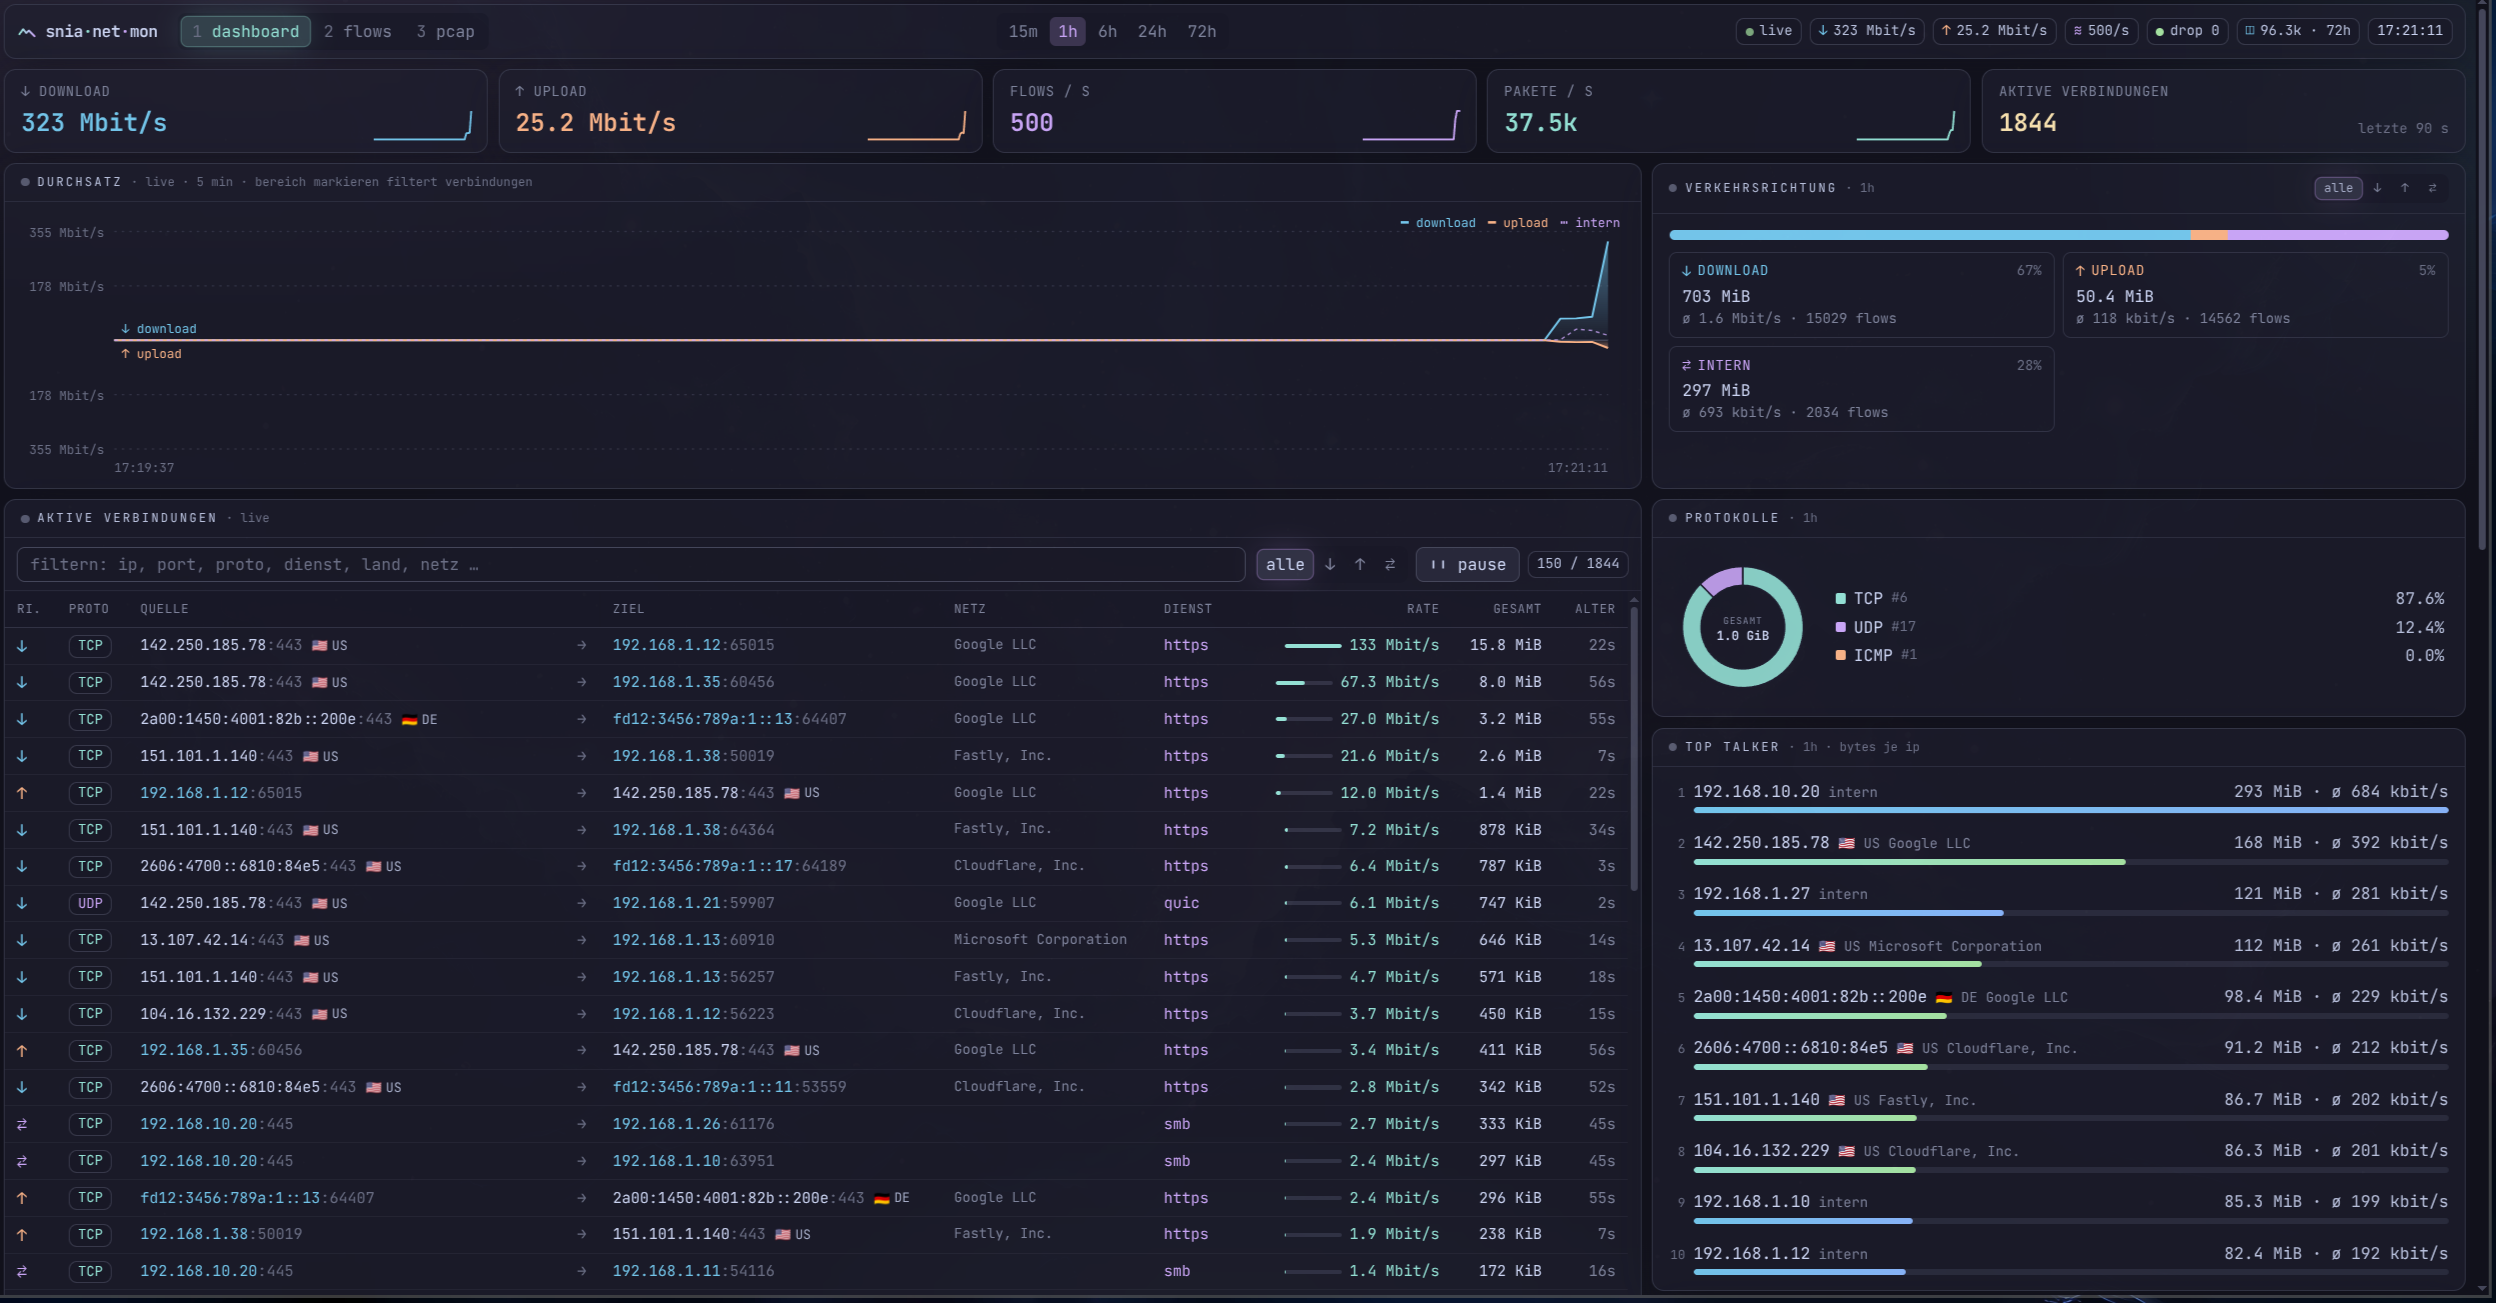
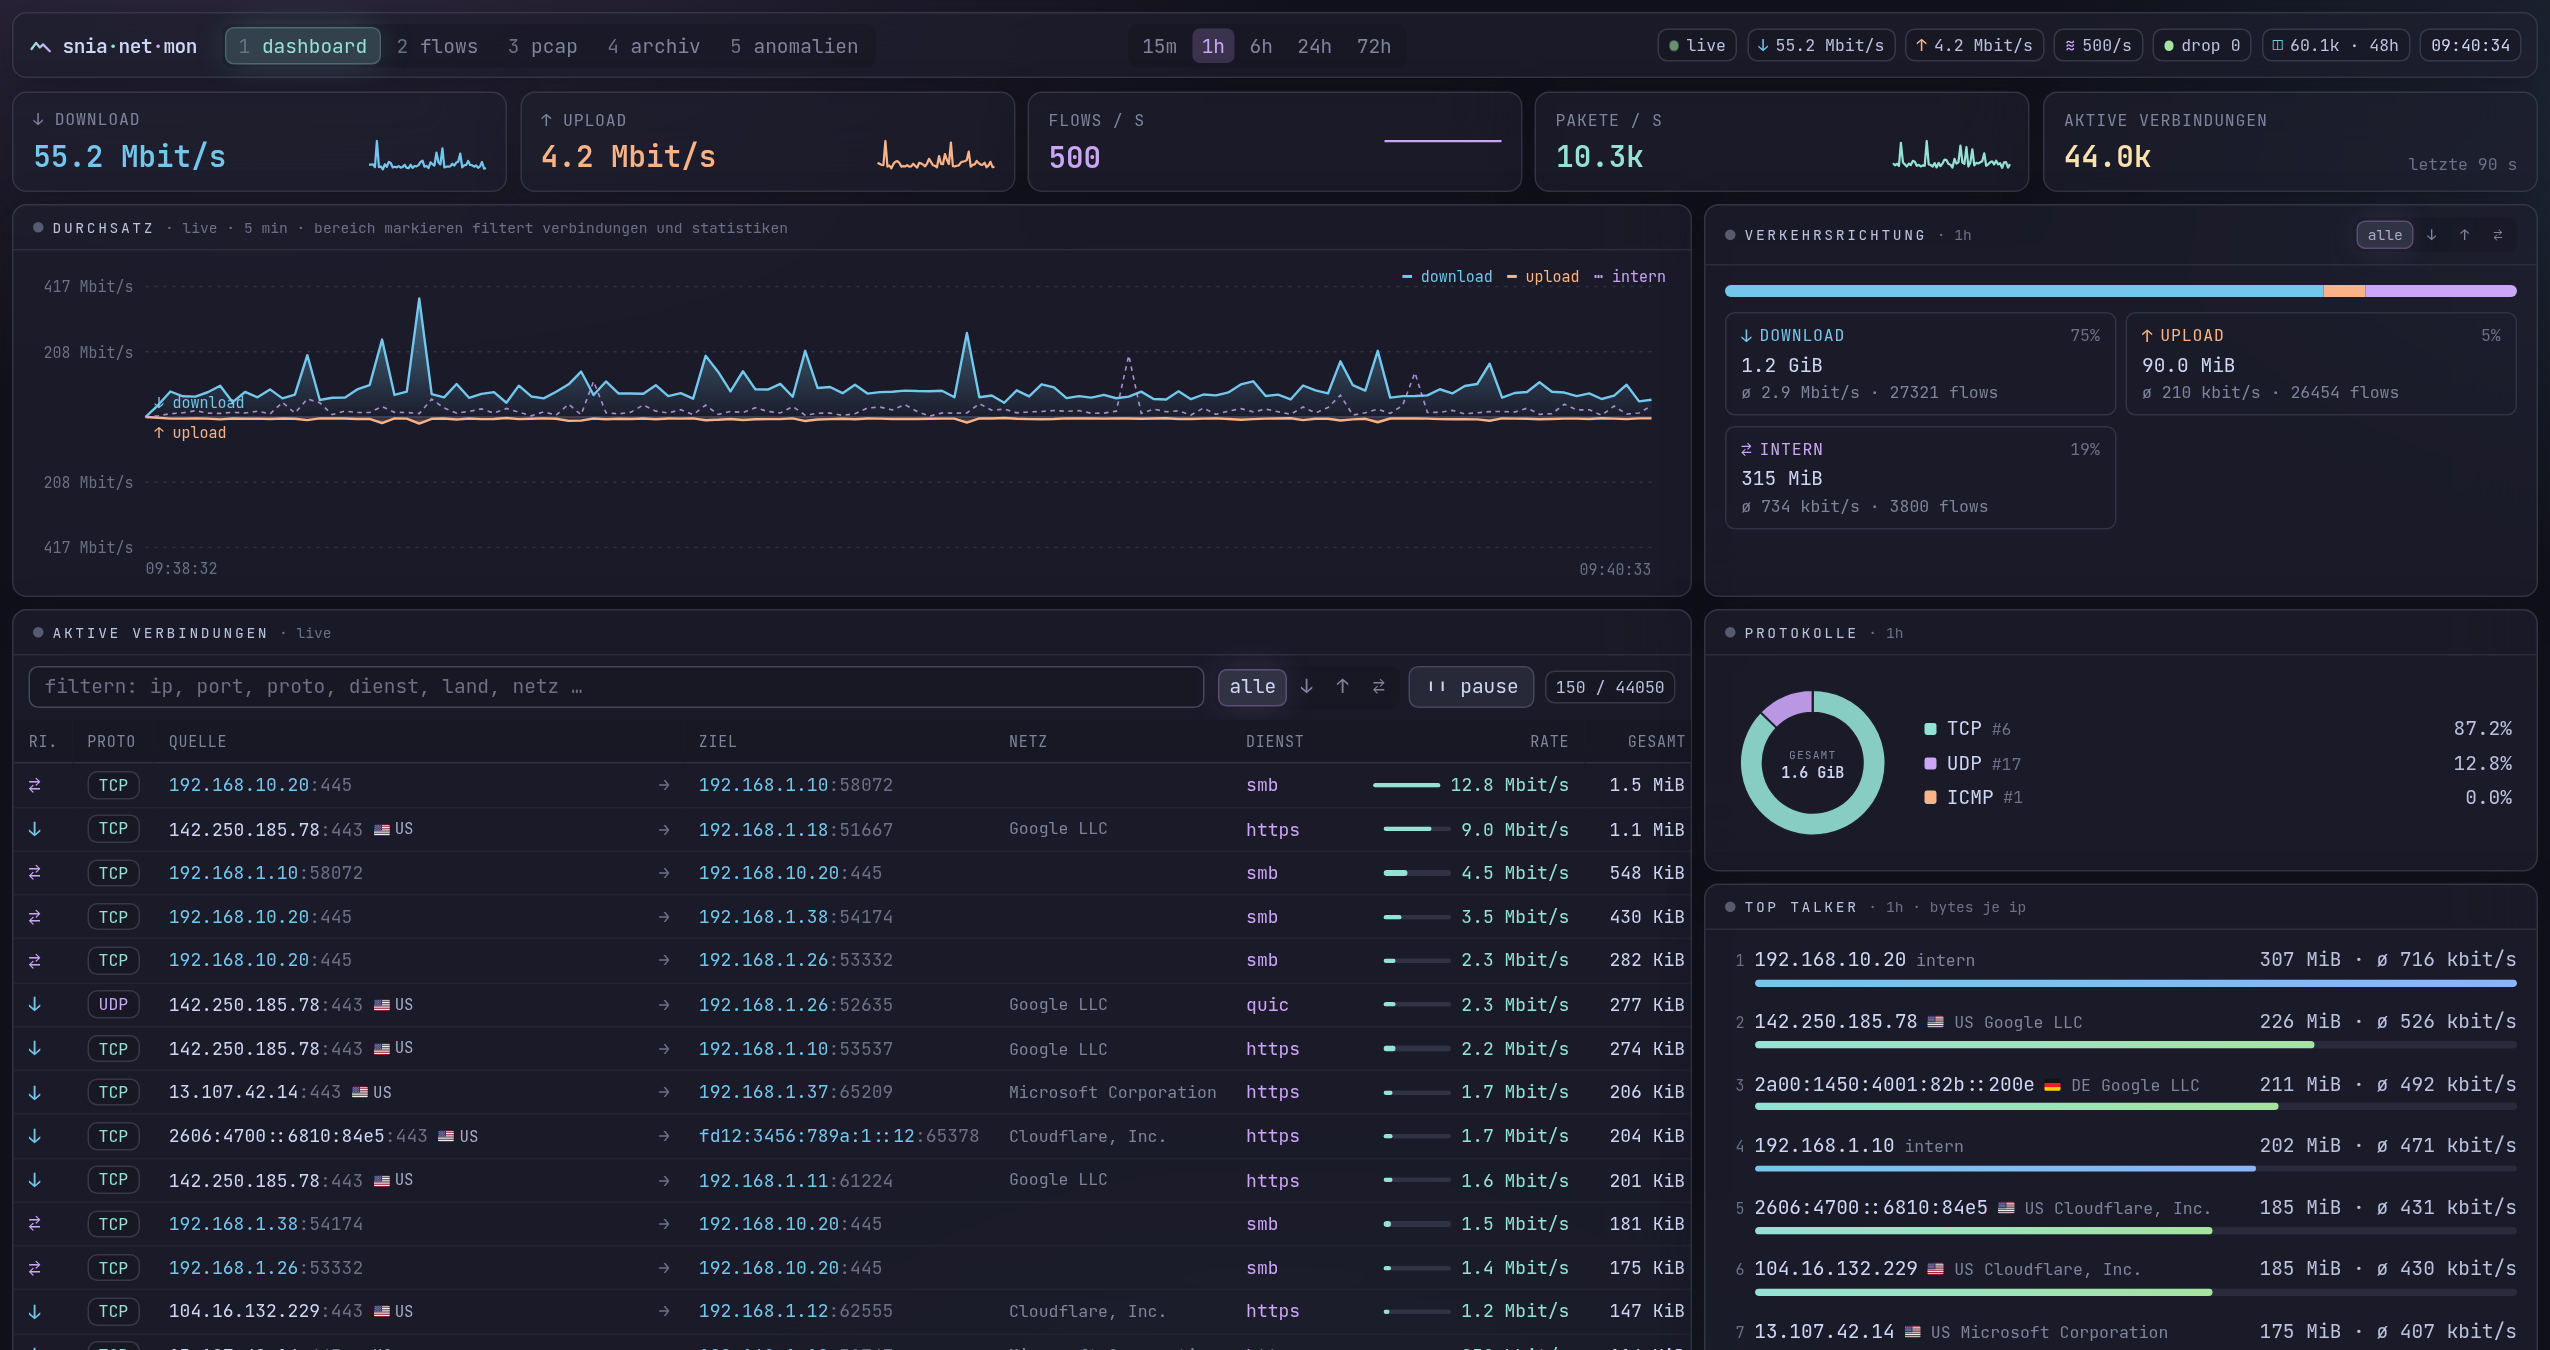
README: neuer Dashboard-Screenshot und Screenshot der Anomalie-Erkennung
- docs/screenshot.png neu aufgenommen: alle fünf Workspaces, volle Tabelle
  der aktiven Verbindungen
- docs/anomalies.png aus der Testumgebung (flowgen, 1-Minuten-Fenster, ohne
  Lernphase, Netz-Regeln wie im Beispiel) mit gezielt eingespielten
  Auffälligkeiten, samt Bildunterschrift unter "Anomalie-Erkennung"

diff --git a/README.md b/README.md
@@ -12,7 +12,7 @@ seinem eigenen. Dazu kommen feste Regeln und ein Isolation Forest als zweite Mei
 - **Frontend:** Svelte 5 + Tailwind, Catppuccin-Mocha-Theme im Hyprland-Look (Frosted Glass, Verlaufskanten, Monospace)
 - **Status:** Prototyp – funktionsfähig und getestet, siehe [Grenzen & nächste Schritte](#grenzen--nächste-schritte)
 
-![Dashboard mit Live-Durchsatz, aktiven Verbindungen samt GeoIP, Verkehrsrichtung, Protokollen und Top Talkern](docs/screenshot.png)
+![Dashboard mit Live-Durchsatz, aktiven Verbindungen samt GeoIP, Verkehrsrichtung, Protokollen und Top Talkern; oben die fünf Workspaces](docs/screenshot.png)
 
 ## Funktionen
 
@@ -116,6 +116,13 @@ Zähler `collector.excluded_flows` unter `/api/status` zeigt, wie viel verworfen
 unverändert.
 
 ## Anomalie-Erkennung
+
+![Anomalie-Ansicht aus der Testumgebung: Status von Lernphase, Baseline und Isolation Forest, darunter Netz-Regel-Verstöße, ein Portscan samt statistischem Treffer, externes DNS und neue Länder](docs/anomalies.png)
+
+*Testumgebung mit flowgen-Verkehr, 1-Minuten-Fenstern, ohne Lernphase und den Regeln aus dem
+[Beispiel unten](#netz-regeln) (dazu SSH erlaubt). Die Auffälligkeiten wurden gezielt eingespielt. Ein
+Schüler-PC scannt das Server-Netz: Das ergibt den Portscan, einen statistischen Treffer (79 statt typisch 3 interne Ziele) und einen Verstoß gegen „schueler → server“.
+Die vielen „neues land“-Einträge entstehen nur, weil die Lernphase hier abgeschaltet ist.*
 
 Der Collector reicht jeden Flow auch an die Anomalie-Erkennung weiter. Sie ordnet ihn dem internen Host zu, der ihn
 verursacht (bei Upload und internem Verkehr die Quelle, bei Download das Ziel), und sammelt je Host und Fenster
